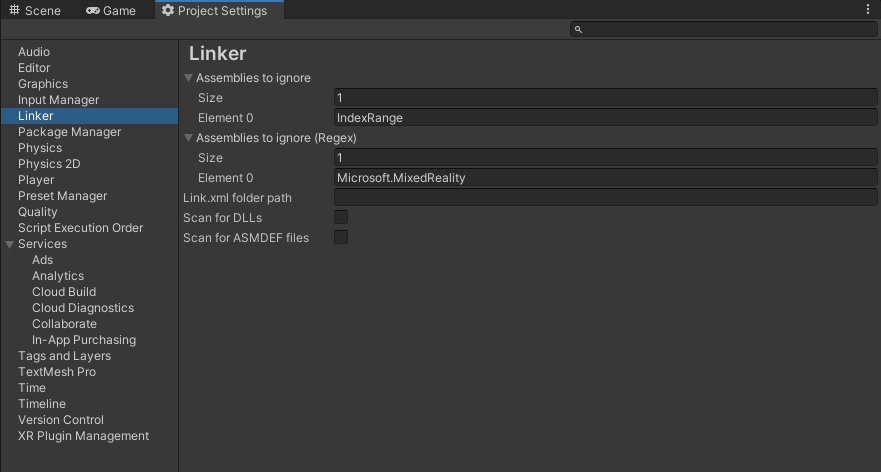
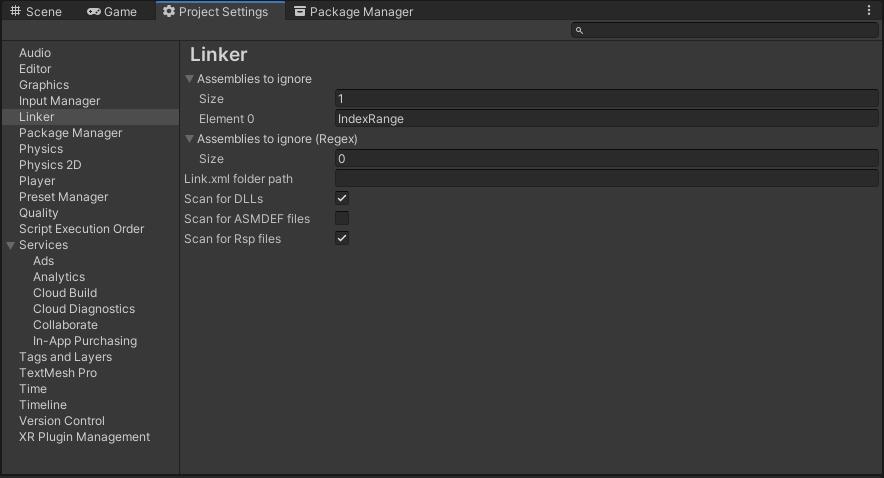
Update documentation

diff --git a/README.md b/README.md
@@ -6,6 +6,8 @@ An editor utility which will generate a link.xml file with the press of a button
 
 The plugin can find all added dlls and compiled scripting assemblies and generate a link.xml file which will preserve all of them.
 
+.RSP files will also be scanned, and assemblies preceded by the "-r:" mark can be found.
+
 You can customize the generation in the project settings
 
 ![Project Settings](/.github/images/ProjectSettings.png)
